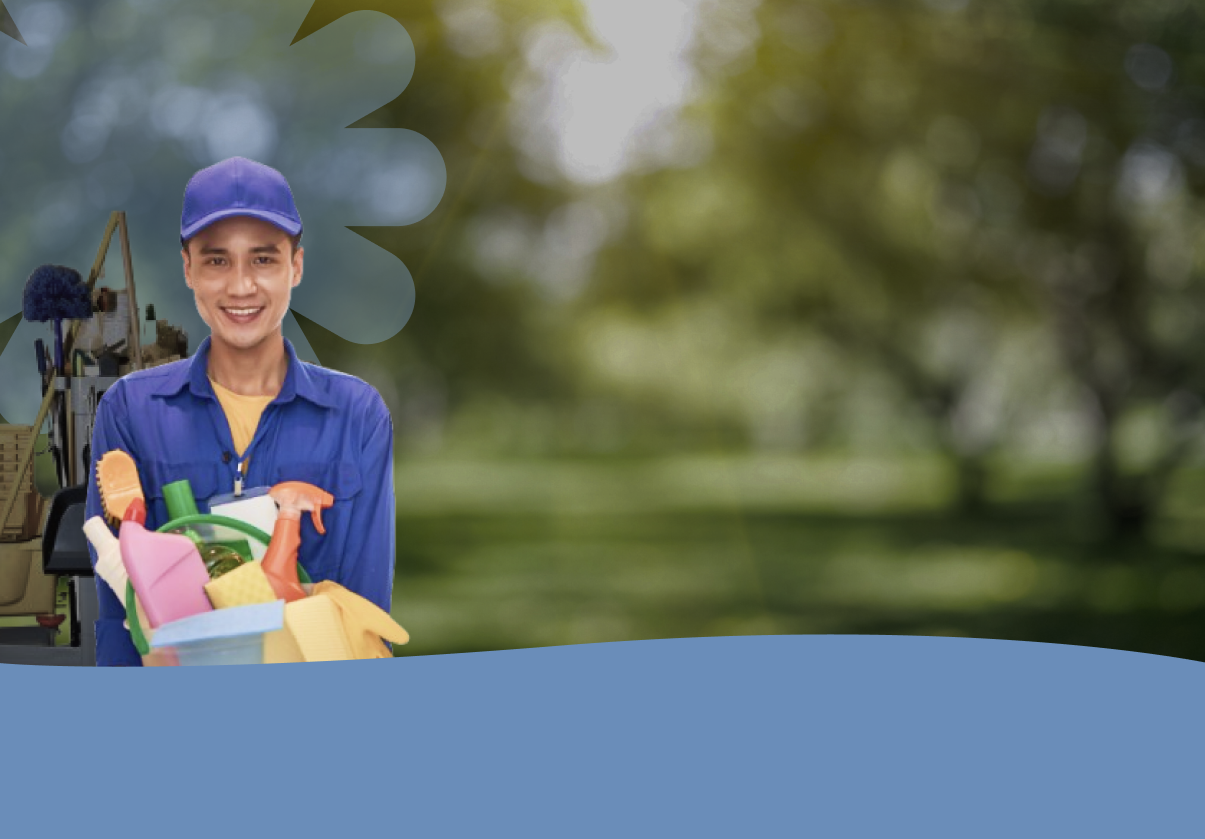
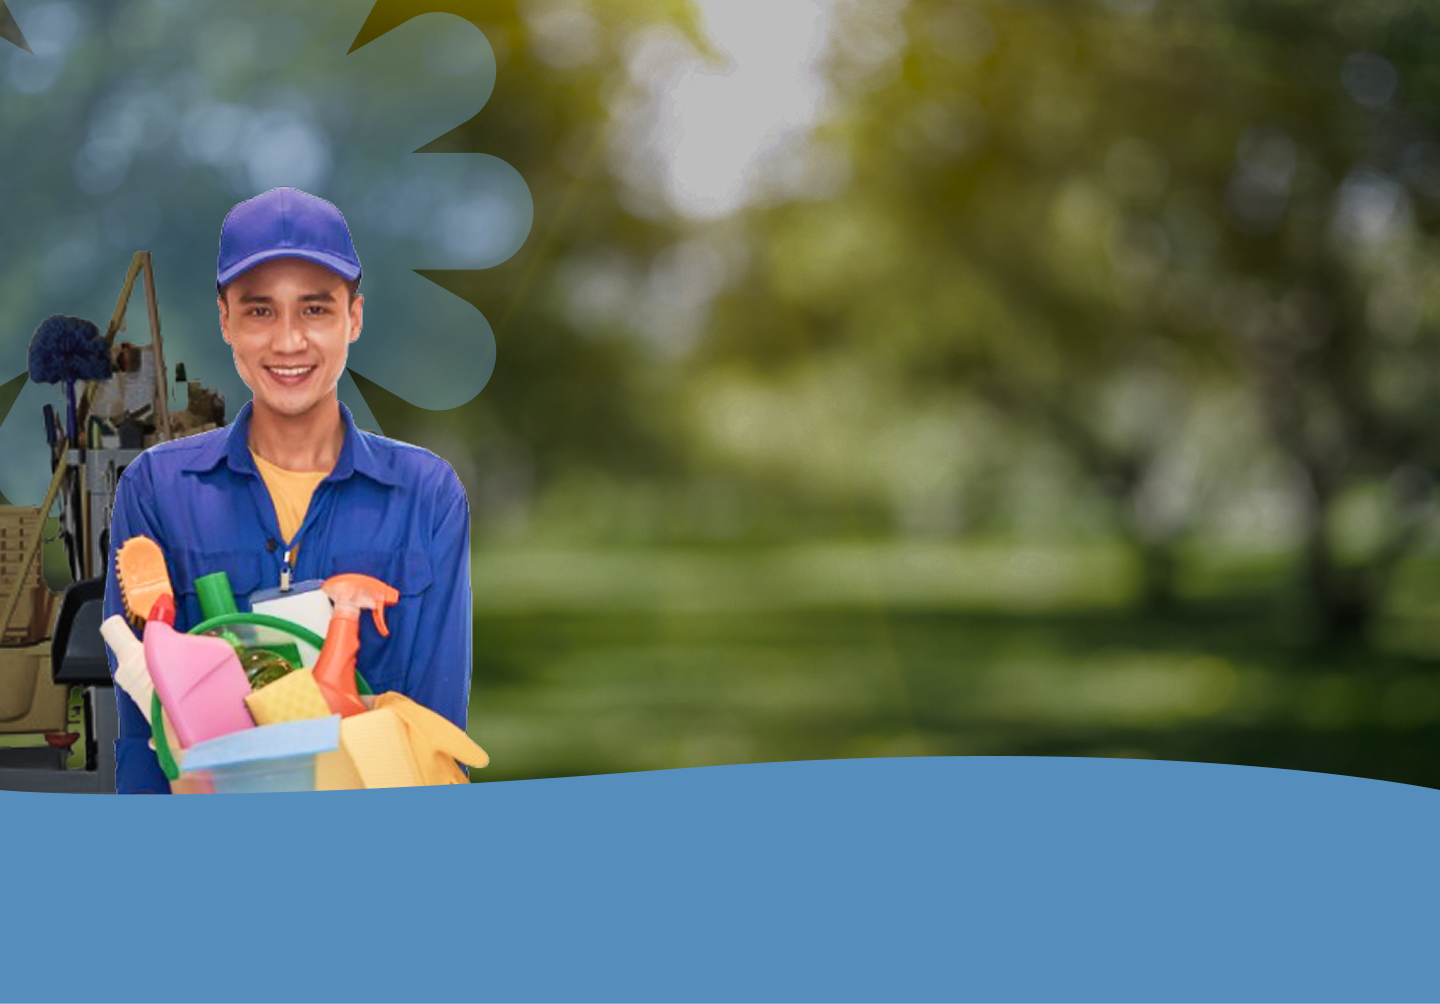
Adjust landing page to match figma layout

diff --git a/src/app/page.jsx b/src/app/page.jsx
@@ -4,33 +4,70 @@ import Link from "next/link"
 
 export default function LandingPage() {
   return (
-    <div className="min-h-screen relative overflow-hidden">
+    <div className="relative w-full h-[1000px]">
       {/* Background Image */}
-      <div className="absolute inset-0 z-0">
-        <Image src="/landing-page-background.png" alt="Landing Page Background" fill className="object-cover" priority />
-        <div className="absolute inset-0 bg-black/20" />
-      </div>
+      <div
+        className="absolute inset-0 z-0 bg-[url('/landing-page-background.png')] bg-cover bg-center bg-no-repeat"
+        role="presentation"
+        aria-hidden="true"
+      />
 
       {/* Header */}
-      <header className="relative z-10 flex items-center justify-between p-6 lg:px-12">
+      <header className="relative left-5 z-10 flex items-center justify-between p-6 lg:px-12">
         <div className="flex items-center gap-2">
-          <div className="w-8 h-8 bg-white rounded-full flex items-center justify-center">
-            <MapPin className="w-5 h-5 text-blue-600" />
-          </div>
-            <span style={{ color: "#cee9ff" }}>temu</span>{" "}
-            <span style={{ color: "#6ebfff" }}>kerja</span>
+          <Image
+            src="/temu-kerja-logo-white.png"
+            alt="Temu Kerja Logo"
+            width={40}
+            height={60}
+            className="object-contain h-20 w-20"
+            priority
+          />
+          <span
+            style={{
+              color: "#cee9ff",
+              fontFamily: "'Plus Jakarta Sans', sans-serif",
+              fontWeight: 600,
+              fontSize: "31.25px",
+            }}
+          >
+            temu
+          </span>{" "}
+          <span
+            style={{
+              color: "#6ebfff",
+              fontFamily: "'Plus Jakarta Sans', sans-serif",
+              fontWeight: 600,
+              fontSize: "31.25px",
+            }}
+          >
+            kerja
+          </span>
         </div>
 
-        <div className="flex gap-3">
+        <div className="flex gap-10">
           <Link
             href="/login"
-            className="bg-white/90 text-gray-700 hover:bg-white px-6 py-2 rounded-md font-medium transition-colors"
+            className="px-9 py-4 rounded-lg font-medium transition-colors"
+            style={{
+              color: "#2F587A",
+              background: "#EBF2F7",
+              fontFamily: "'Plus Jakarta Sans', sans-serif",
+              fontWeight: 700,
+              fontSize: "20px",
+            }}
           >
             Masuk
           </Link>
           <Link
             href="/register"
-            className="bg-blue-600 hover:bg-blue-700 text-white px-6 py-2 rounded-md font-medium transition-colors"
+            className="text-white px-9 py-4 rounded-lg font-medium transition-colors"
+            style={{
+              background: " #4581B2",
+              fontFamily: "'Plus Jakarta Sans', sans-serif",
+              fontWeight: 700,
+              fontSize: "20px",
+            }}
           >
             Daftar
           </Link>
@@ -38,42 +75,65 @@ export default function LandingPage() {
       </header>
 
       {/* Main Content */}
-      <main className="relative z-10 flex flex-col items-center justify-center min-h-[calc(100vh-120px)] px-6 text-center">
+      <main className="absolute right-15 top-15 z-10 flex flex-col items-center justify-center min-h-[calc(100vh-120px)] px-6 text-center">
         {/* Hashtag */}
-        <div className="absolute top-8 right-8 hidden lg:block">
-          <span className="text-white/80 text-sm font-medium">#AyoBekerja</span>
+        <div className="mb-4 lg:block text-white">
+          <span
+            style={{
+              fontFamily: "'Roboto', sans-serif",
+              fontWeight: 600,
+              fontSize: "20.4px"
+            }}
+          >
+            #AyoBekerja
+          </span>
         </div>
 
         {/* Hero Content */}
         <div className="max-w-4xl mx-auto space-y-6">
-          <h1 className="text-4xl lg:text-6xl font-bold text-white leading-tight">
+          <h1
+            className="text-left"
+            style={{
+              fontFamily: "'Plus Jakarta Sans', sans-serif",
+              fontWeight: 800,
+              fontSize: "65.41px",
+              color: "#fff",
+              lineHeight: 1.1,
+            }}
+          >
             Cari Kerja Jadi Lebih
             <br />
             Mudah dan Cepat
           </h1>
 
-          <p className="text-lg lg:text-xl text-white/90 max-w-2xl mx-auto leading-relaxed">
-            menghubungkan individu yang mencari penghasilan dengan orang-orang yang butuh bantuan. Mulai dari jasa
-            bersih-bersih hingga proyek profesional—semuanya ada di sini.
+          <p
+            className="text-lg lg:text-xl text-white/90 max-w-2xl mx-auto leading-relaxed"
+            style={{
+              fontFamily: "'Urbanist', sans-serif",
+              fontWeight: 600,
+              fontSize: "20.4px",
+            }}
+          >
+            menjembatani individu yang mencari penghasilan dengan orang-orang yang butuh bantuan. Mulai dari jasa bersih-bersih hingga proyek profesional—semuanya ada di sini.
           </p>
 
           <div className="pt-4">
             <Link
               href="/dashboard"
-              className="bg-white text-blue-600 hover:bg-gray-100 px-8 py-3 text-lg font-semibold rounded-lg transition-colors inline-block"
+              className="px-9 py-4 rounded-lg font-medium transition-colors inline-block"
+              style={{
+                color: "#2F587A",
+                background: "#EBF2F7",
+                fontFamily: "'Plus Jakarta Sans', sans-serif",
+                fontWeight: 700,
+                fontSize: "20px",
+              }}
             >
               Coba Sekarang
             </Link>
           </div>
         </div>
       </main>
-
-      {/* Bottom Curved Section */}
-      <div className="absolute bottom-0 left-0 right-0 z-10">
-        <svg viewBox="0 0 1200 120" className="w-full h-20 lg:h-32" preserveAspectRatio="none">
-          <path d="M0,120 C300,60 900,60 1200,120 L1200,120 L0,120 Z" fill="#4A90E2" />
-        </svg>
-      </div>
     </div>
   )
 }
